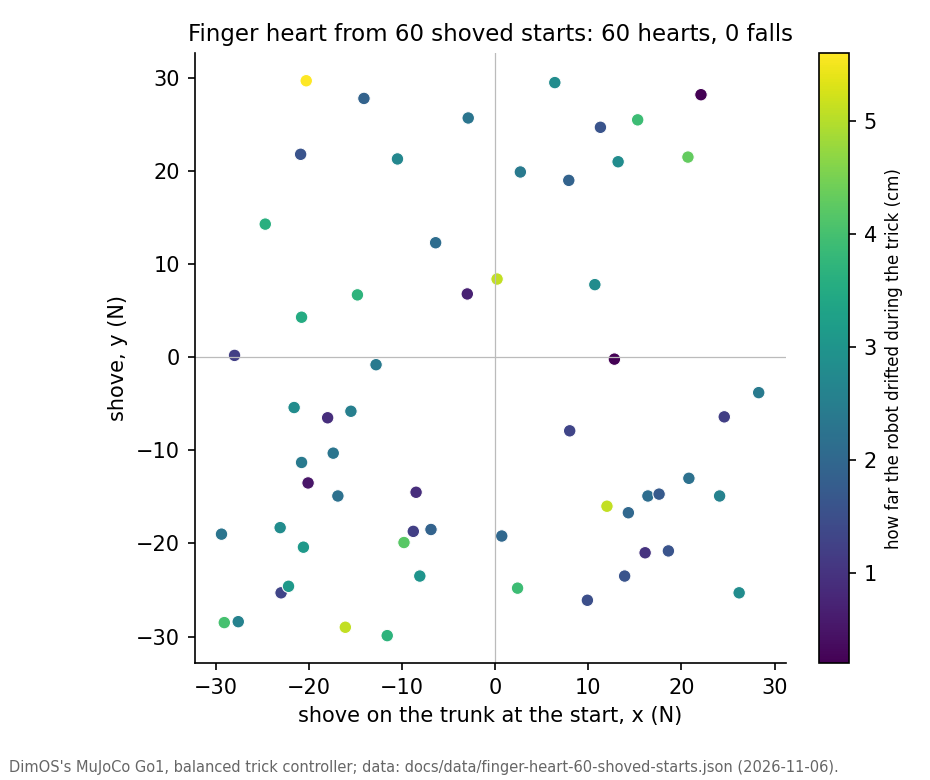
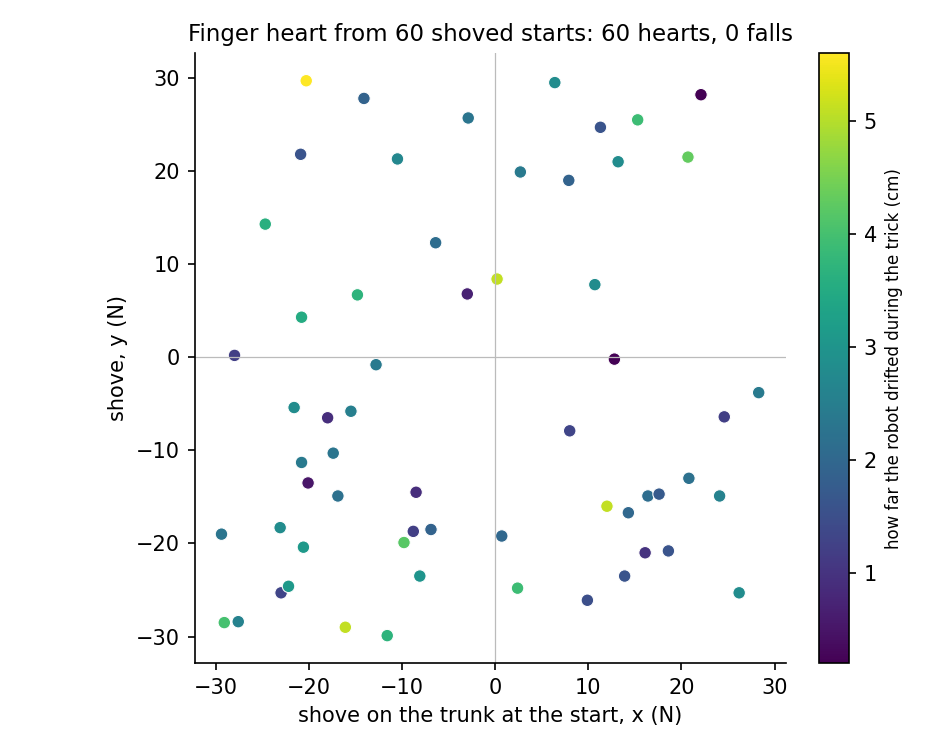
Showcase v2: review fixes (no burned-in paths or debug HUD, owner quote paraphrased)

diff --git a/README.md b/README.md
@@ -25,7 +25,7 @@ wearing it are real.
 
 ## What it does
 
-All of these clips were recorded on the headset in a real apartment on 6 November 2026. The robot's lines are its own,
+The clips were recorded on the headset in a real apartment on 6 November 2026. The robot's lines are its own,
 generated by Claude.
 
 | | |
@@ -38,7 +38,7 @@ generated by Claude.
 | **Follow me.** Ask it to follow and the dog, here in its Shiba look, trails you out of the room and down the hallway. | <img src="docs/media/P010-follow-me.gif" width="420" alt="A Shiba Inu with a yellow sight cone trots down a real hallway after the wearer"> |
 
 It also hides behind your real walls, finds its way to any named room on request, can be picked up and put down
-somewhere else, answers "Can you see my legs?" truthfully from its own camera, and responds to Siri ("Where is
+somewhere else, answers truthfully from its own camera when you ask whether it can see your legs, and responds to Siri ("Where is
 Roommate?").
 
 ## In the simulation
@@ -67,16 +67,15 @@ Everything below is synthetic: a test apartment, the visionOS Simulator and the 
   <tr>
     <td><img src="docs/media/gallery-heart.png" alt="Left: the simulated Go1 up on its hind legs. Right: the two paw paths it traced, a 21 cm heart"><br>
       <sub>The finger heart in the sim, and the heart the two front paws traced (21 cm across).</sub></td>
-    <td><img src="docs/media/simulator-overview-map.jpg" alt="The Vision Pro Simulator showing the twin as a small floating dollhouse with the robot and its path"><br>
-      <sub>The floating map: the whole home as a dollhouse, with the robot and its route.</sub></td>
-  </tr>
-  <tr>
     <td><img src="docs/media/gallery-lined-up-card.jpg" alt="A card in the Simulator: 'Lined up: bedroom, ±1.6 cm', 90% of what you see matches, with an Undo button"><br>
       <sub>Look around and the headset finds which room you're in and lines up with the scan by itself.</sub></td>
-    <td><img src="docs/media/gallery-replica-go1.png" alt="The headset's robot model in two poses beside the physics sim's own render of the same pose"><br>
-      <sub>1:1: the robot drawn in the headset matches the physics sim's own render of the same pose.</sub></td>
   </tr>
 </table>
+
+<p align="center">
+  <img src="docs/media/gallery-replica-go1.png" alt="The headset's robot model in two poses beside the physics sim's own render of the same pose">
+  <br><sub>1:1: the robot drawn in the headset matches the physics sim's own render of the same pose.</sub>
+</p>
 
 ## Measured
 
@@ -112,7 +111,7 @@ the robot does its tricks for real, and declines the ones it can't do in words.
 
 ## Status
 
-- **The body is simulated.** Nothing here has run on real robot hardware yet; a real Unitree body is the next step.
+- **The body is simulated.** Nothing here has run on real robot hardware.
 - **Alignment is good, not perfect.** On the headset it lined itself up in 8 of 11 tries. The rest were rooms that look
   alike, settled with a pinch or two, or cancelled.
 - **Only a few tricks are real:** the finger heart, a hip wiggle, the paw and a spin learned from real dog motion.
